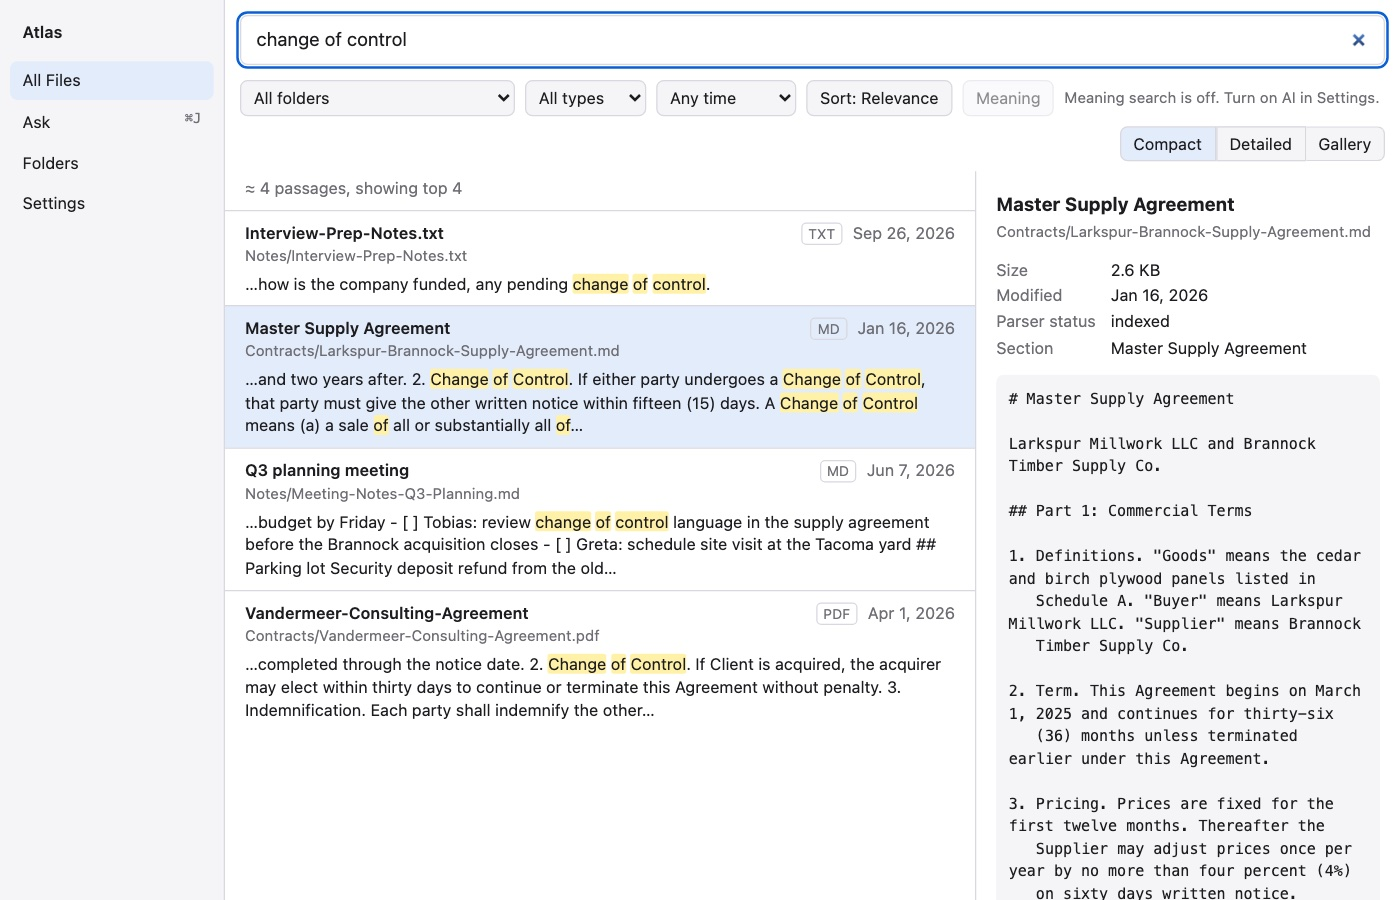
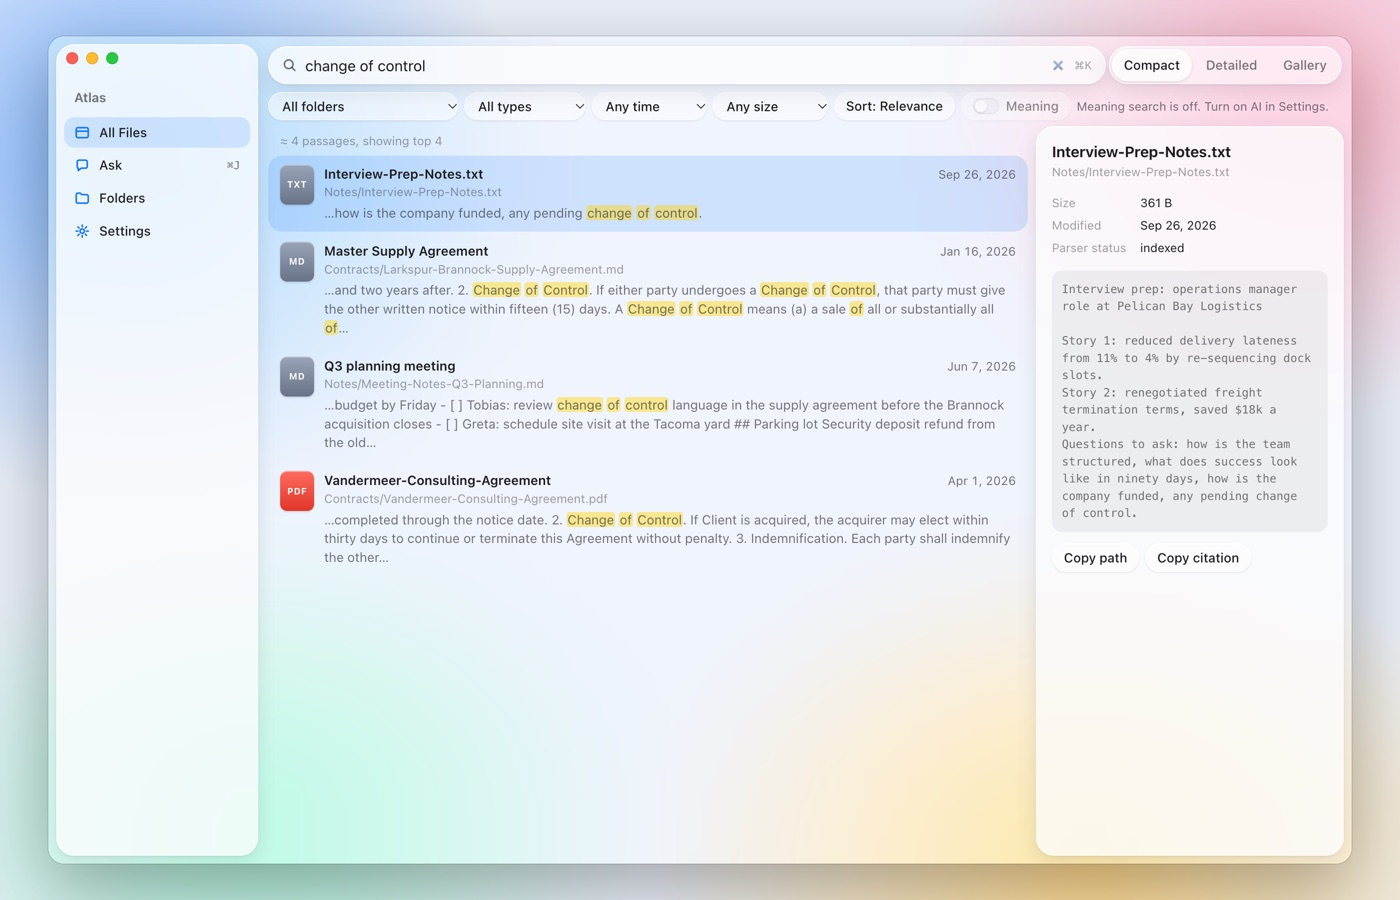
Atlas: new Liquid Glass screenshots
Light-mode list and dark-mode table from the real Atlas interface on the
invented sample folder, plus new thumbnails and captions.

diff --git a/research/index.html b/research/index.html
@@ -230,11 +230,11 @@
     <div class="shots">
       <figure>
         <img decoding="async" src="../assets/atlas-1.jpg" alt="Atlas searching for “change of control”: four passages from a supply agreement, a consulting agreement, meeting notes and interview notes, each with the words highlighted, and the full text of the supply agreement open in a preview pane." width="1400" height="900" loading="lazy">
-        <figcaption>A search for “change of control” across a folder of invented documents. Each result is the passage that matched, and the file opens beside it.</figcaption>
+        <figcaption>A search for “change of control” across a folder of invented documents. Each result is the passage that matched, and the file opens beside it. Shown in light mode, with the window in Apple&#x27;s Liquid Glass.</figcaption>
       </figure>
       <figure>
         <img decoding="async" src="../assets/atlas-2.jpg" alt="The detailed table view for “security deposit”: seven files with folder, type, date modified, size and the page or section that matched, and a home repair checklist open in the preview pane with Copy path and Copy citation buttons." width="1400" height="900" loading="lazy">
-        <figcaption>The same results as a table, with the folder, type, date, size and the page or heading where each match sits.</figcaption>
+        <figcaption>The same results as a table, with the folder, type, date, size and the page or heading where each match sits, in dark mode.</figcaption>
       </figure>
     </div>
 
